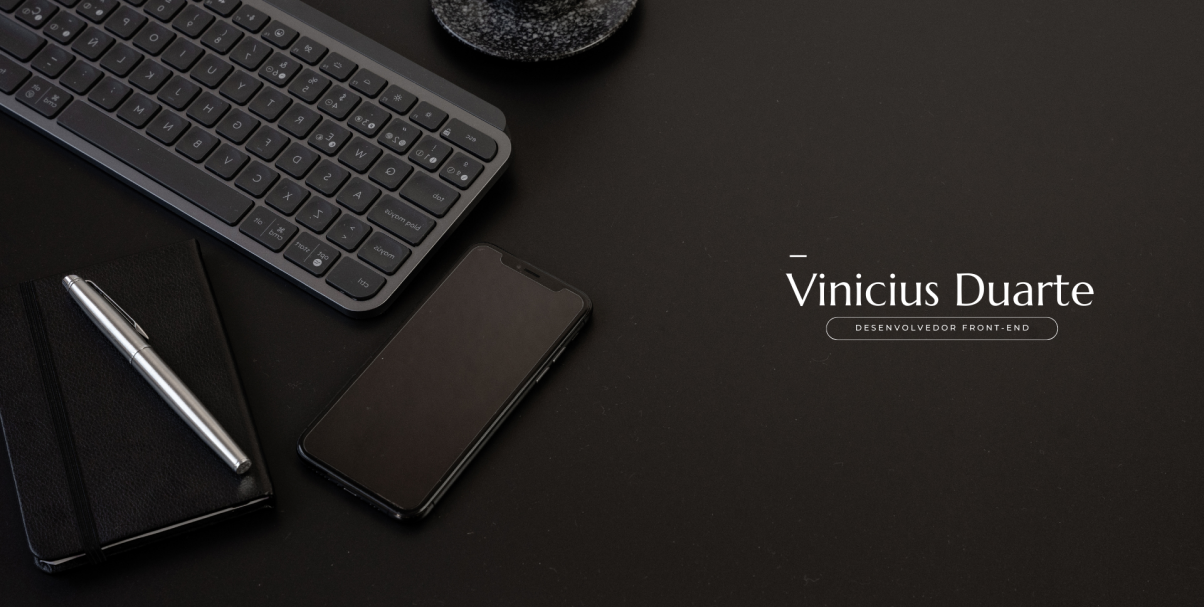
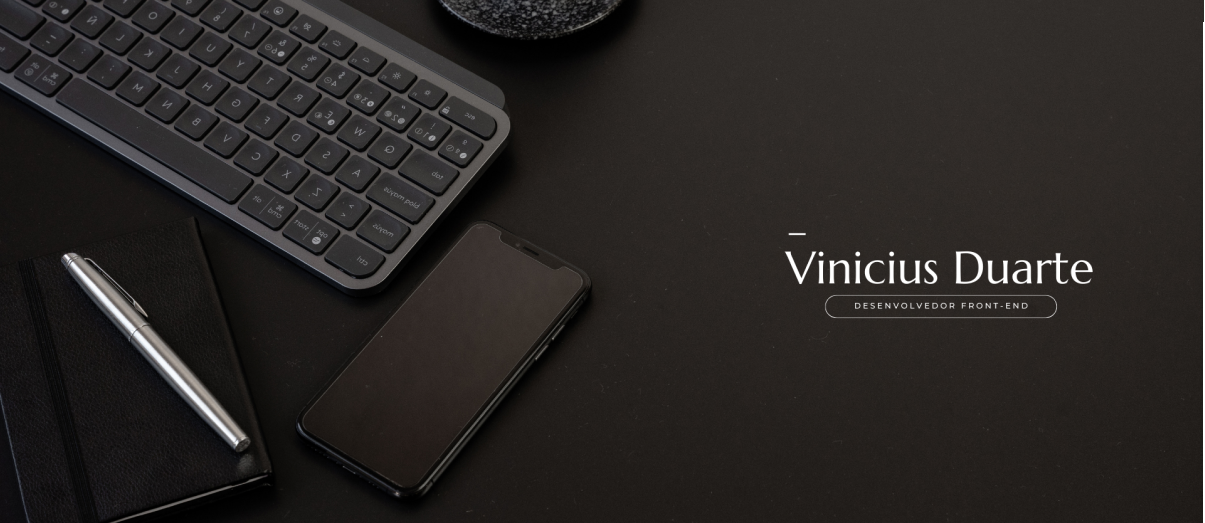
alteração no tamanhos das fonts

diff --git a/assets/css/displays.css b/assets/css/displays.css
@@ -1,4 +1,7 @@
 @media screen and (min-width:720px) {
+
+     /* section apresentação */ 
+
     .foto-mobile {
         width: 35rem;
         height: 35rem;
@@ -12,15 +15,12 @@
         
     }
     
-    .btn-sm {
+    .btn-ler-mais {
         padding: .5rem 1rem;
         margin-top: .5rem;
     }
     
     .p-apresentacao-txt {
-    
-
-        width: 630px;
         margin-top: -5rem;
         font-size: 18px;
         opacity: .6;
@@ -32,5 +32,60 @@
         width: 95%;
         margin: 3rem 0;
         
+    }
+
+    /* fim da section apresentação */
+
+   
+  }
+
+  @media screen and (min-width:1024px) {
+
+    h2 {
+        font-size: 40px;
+    }
+
+    /* section apresentação */
+    .foto-mobile {
+        width: 40rem;
+        height: 40rem;
+        margin-left: 5rem;
+    }
+
+    .p-apresentacao {
+        margin-top: -4rem;
+        font-size:24px;
+        opacity: .6;
+        
+    }
+    
+    .btn-ler-mais {
+        padding: 1rem 2rem;
+        margin-top: .5rem;
+        font-size: 18px;
+    }
+    
+    .p-apresentacao-txt {
+    
+        margin-top: -7rem;
+        font-size: 24px;
+        opacity: .6;
+        
+    }
+    
+    .sobre-escondido {
+    
+        width: 95%;
+        margin: 3rem 0;
+        
+    }
+
+    /* fim da section apresentação */
+  }
+
+  @media screen and (min-width:1024px) {
+    .img-fluid {
+        display: block;
+        width: 100%;
     }
   }

diff --git a/assets/css/apresentacao.css b/assets/css/apresentacao.css
@@ -14,8 +14,10 @@ body {
 
 
 .p-apresentacao {
-    font-size: 12px;
-    opacity: .6;
+  width: 95%;
+  font-size: 12px;
+  opacity: .6;
+  margin-bottom: 1rem;
 }
 
 .btn-sm {
@@ -27,7 +29,7 @@ body {
 .p-apresentacao-txt {
 
     display: flex;
-    width: 340px;
+    width: 90%;
     margin-top: -5rem;
     font-size: 12px;
     opacity: .6;
